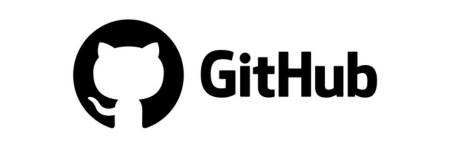
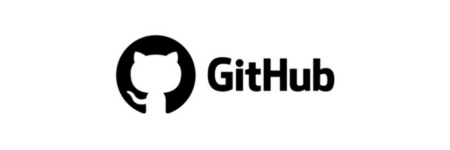
commit

Changed region(s): [[0.1556, 0.1067, 0.84, 0.8533]]

diff --git a/_includes/clients.html b/_includes/clients.html
@@ -6,7 +6,7 @@
 	    {% for client in site.data.sitetext[site.locale].clients.list %}
         <div class="col-md-3 col-sm-2">
           <a href="{{ client.url }}" target="_blank" rel="noopener noreferrer">
-            <img class="img-fluid d-block mx-auto" src="{{ client.logo }}" alt="{{ client.title }}" style="max-height: {{ site.data.sitetext[site.locale].clients.max-height | default: "100px" }}" width="80%">
+            <img class="img-fluid d-block mx-auto" src="{{ client.logo }}" alt="{{ client.title }}" style="max-height: {{ site.data.sitetext[site.locale].clients.max-height | default: "100px" }}">
           </a>
         </div>
 	    {% endfor %}
